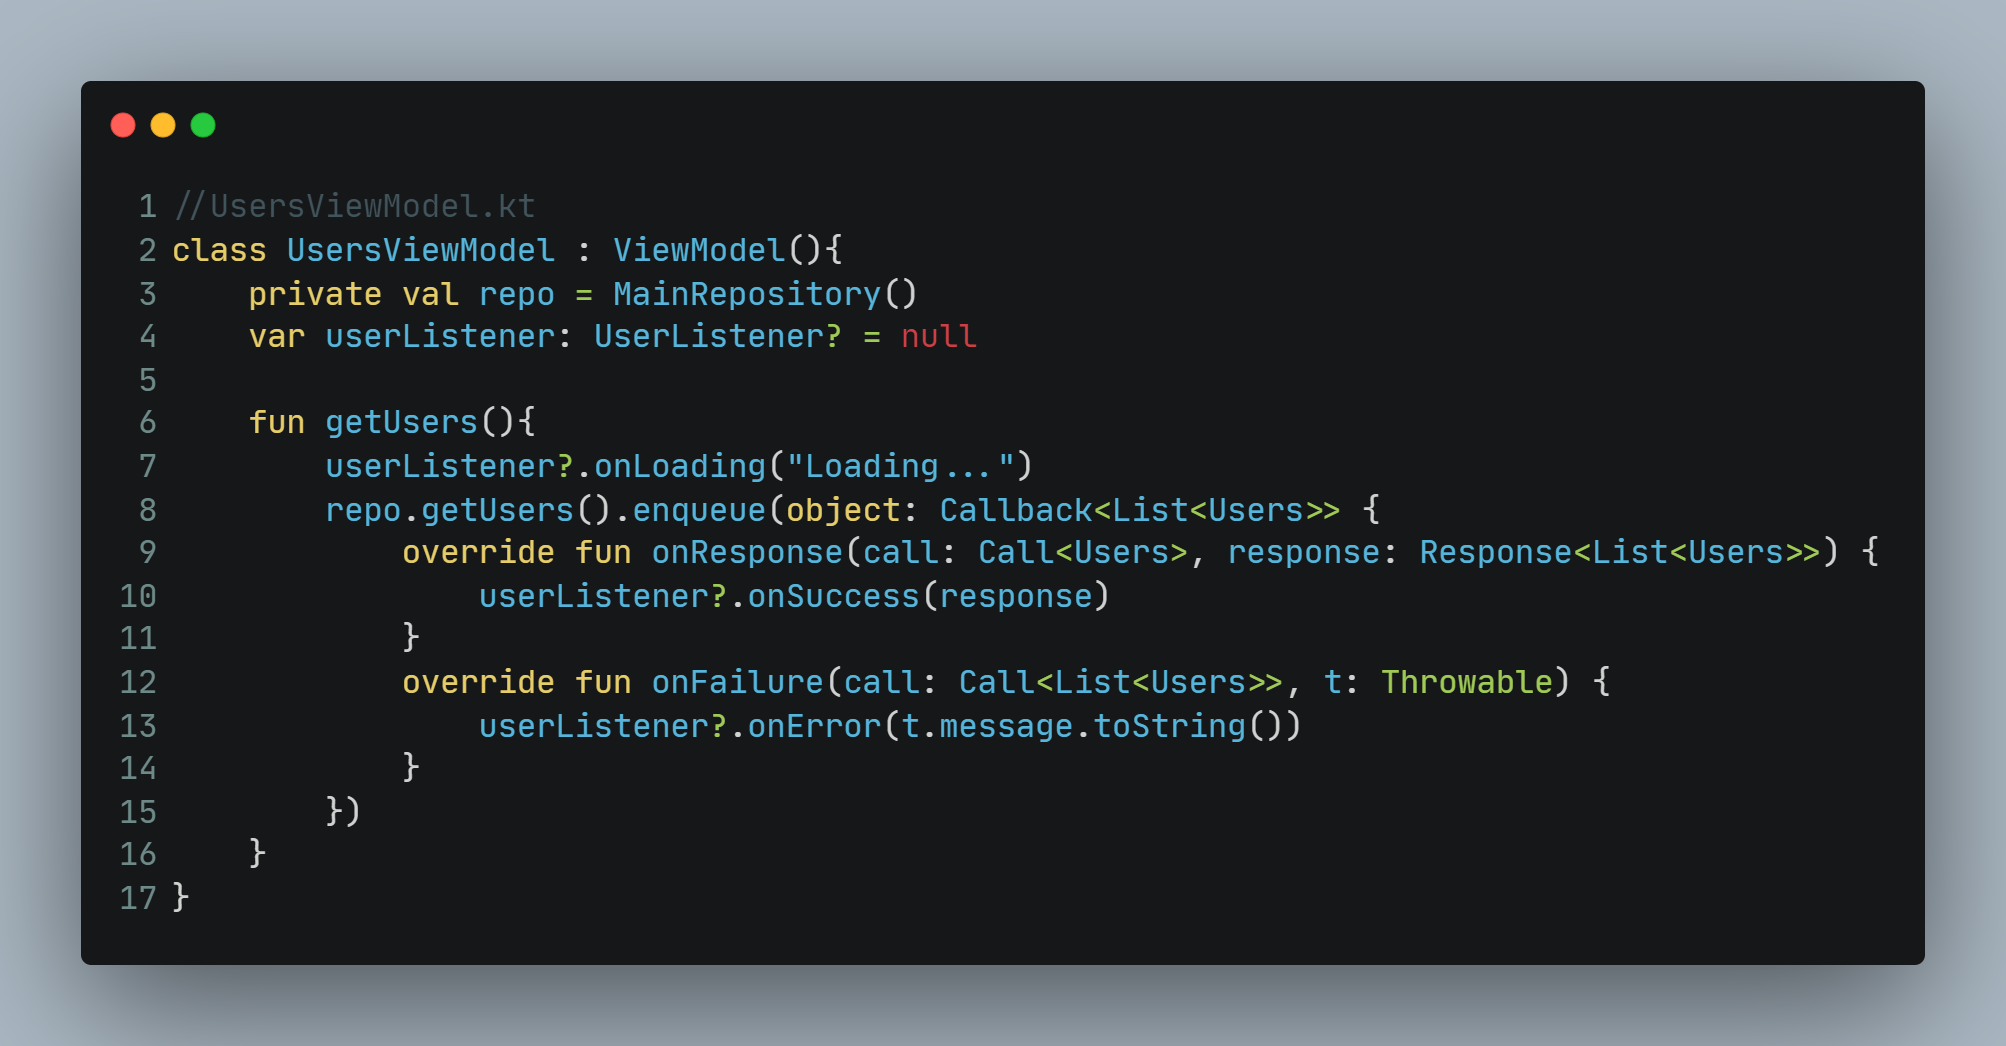
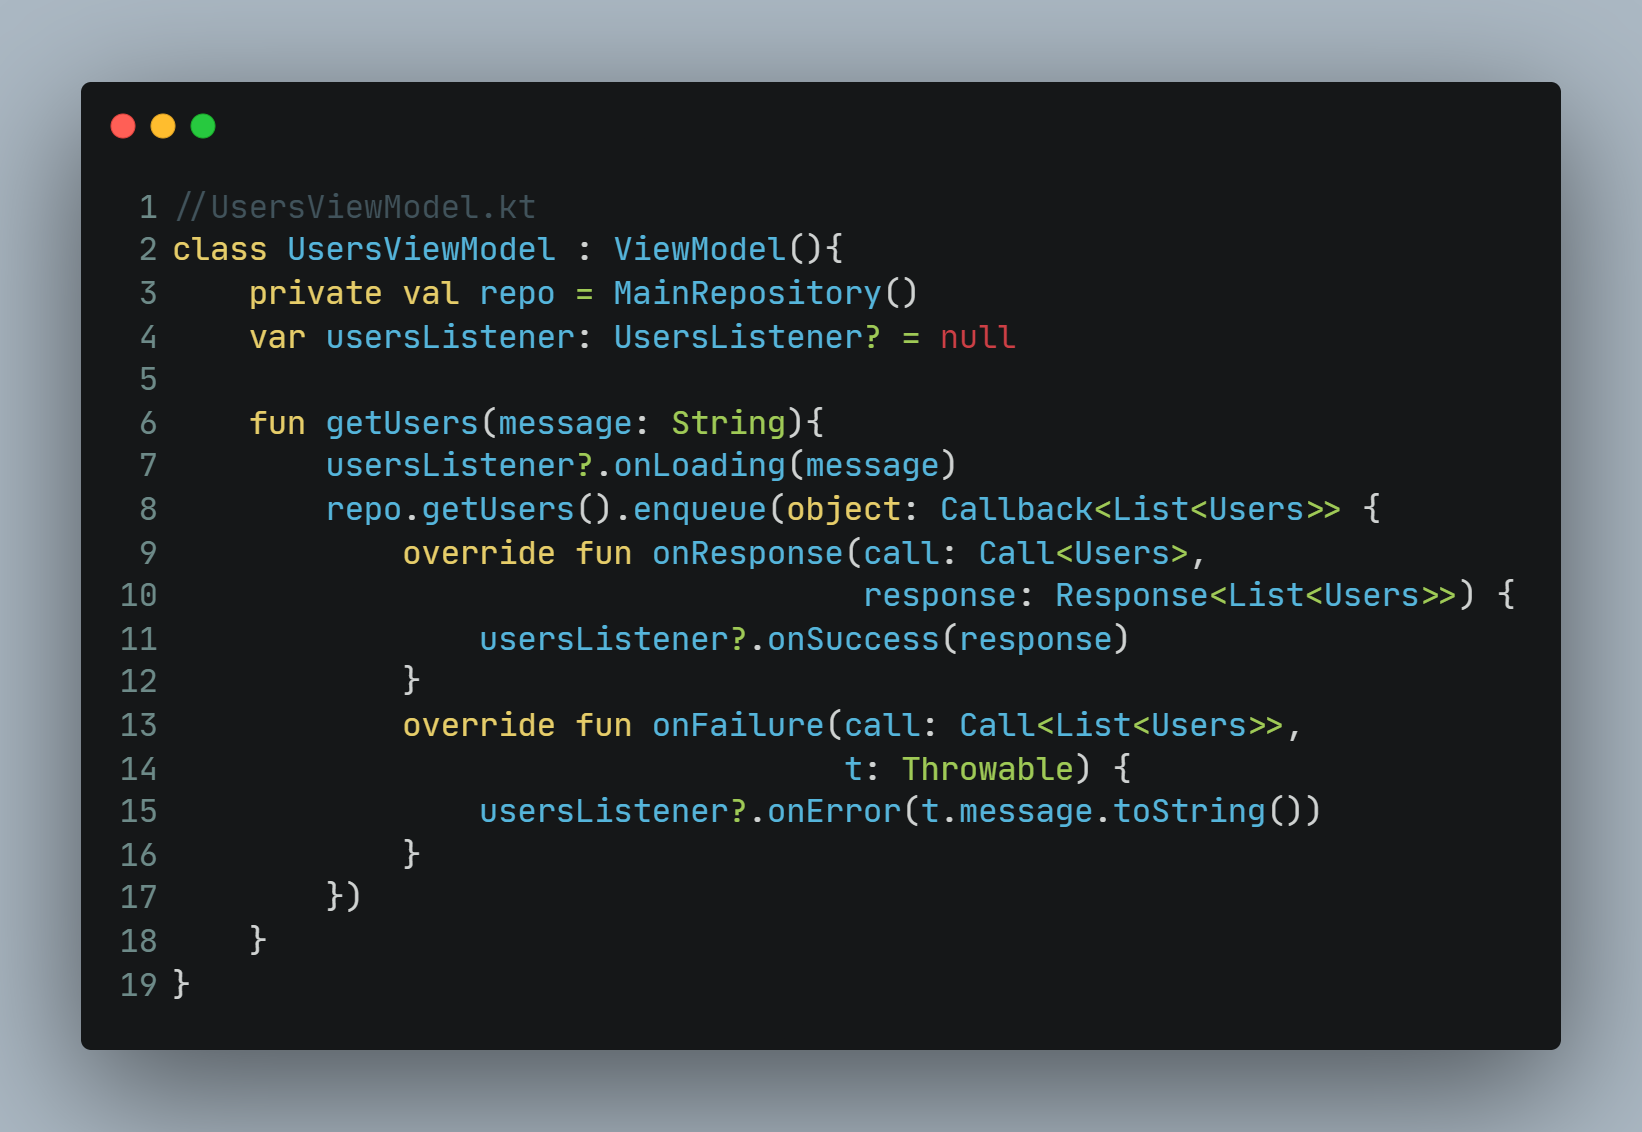
Update

Changed region(s): [[0.0311, 0.0612, 0.9629, 0.9484], [0.1864, 0.6119, 0.8076, 0.7342], [0.1553, 0.7648, 0.2174, 0.7954]]

diff --git a/_posts/2022-04-21-migrating-to-livedata.md b/_posts/2022-04-21-migrating-to-livedata.md
@@ -25,12 +25,18 @@ Here are some advantages of using LiveData in your project:
 I've been using ViewModel with interfaces as a listener and for passing data from my ViewModel to the corresponding activity.
 I was defining the interface in ViewModel and implementing it in activity/fragment. So whenever some event happens we simply call the method on the interface. This is simple and straightforward approach but this is an anti-pattern because in MVVM we should not have any reference to the view. 
 
-Let's see the interface communication approach below:
+Let's see how our the interface looks like:
+
 ![mgl-interface](https://raw.githubusercontent.com/mrpascal1/mrpascal1.github.io/master/imgs/mgl-interface.png)
+This interface we have declared has 3 methods, they are very much self explanatory.
 
-The ViewModel file looking like below:
+Let's have a look at the ViewModel
 ![mgl-viewmodel](https://raw.githubusercontent.com/mrpascal1/mrpascal1.github.io/master/imgs/mgl-viewmodel.png)
-
+In UsersViewModel we are:
+*   Creating a private instance of the repository.
+*   Initializing the interface (UsersListener) with null.
+*   Defining a method <code>getUsers(message: String)</code> which take one string parameter and on execution we first call the <code>onLoading(message)</code> method. Then make an async network call using the repository method <code>getUsers()</code>, if everything goes well we'll call the <code>onSuccess(response)</code> method. But if there is some error, we'll call the 
+<code>onError(error)</code>
 
 If you found this blog informative, please share.
 
